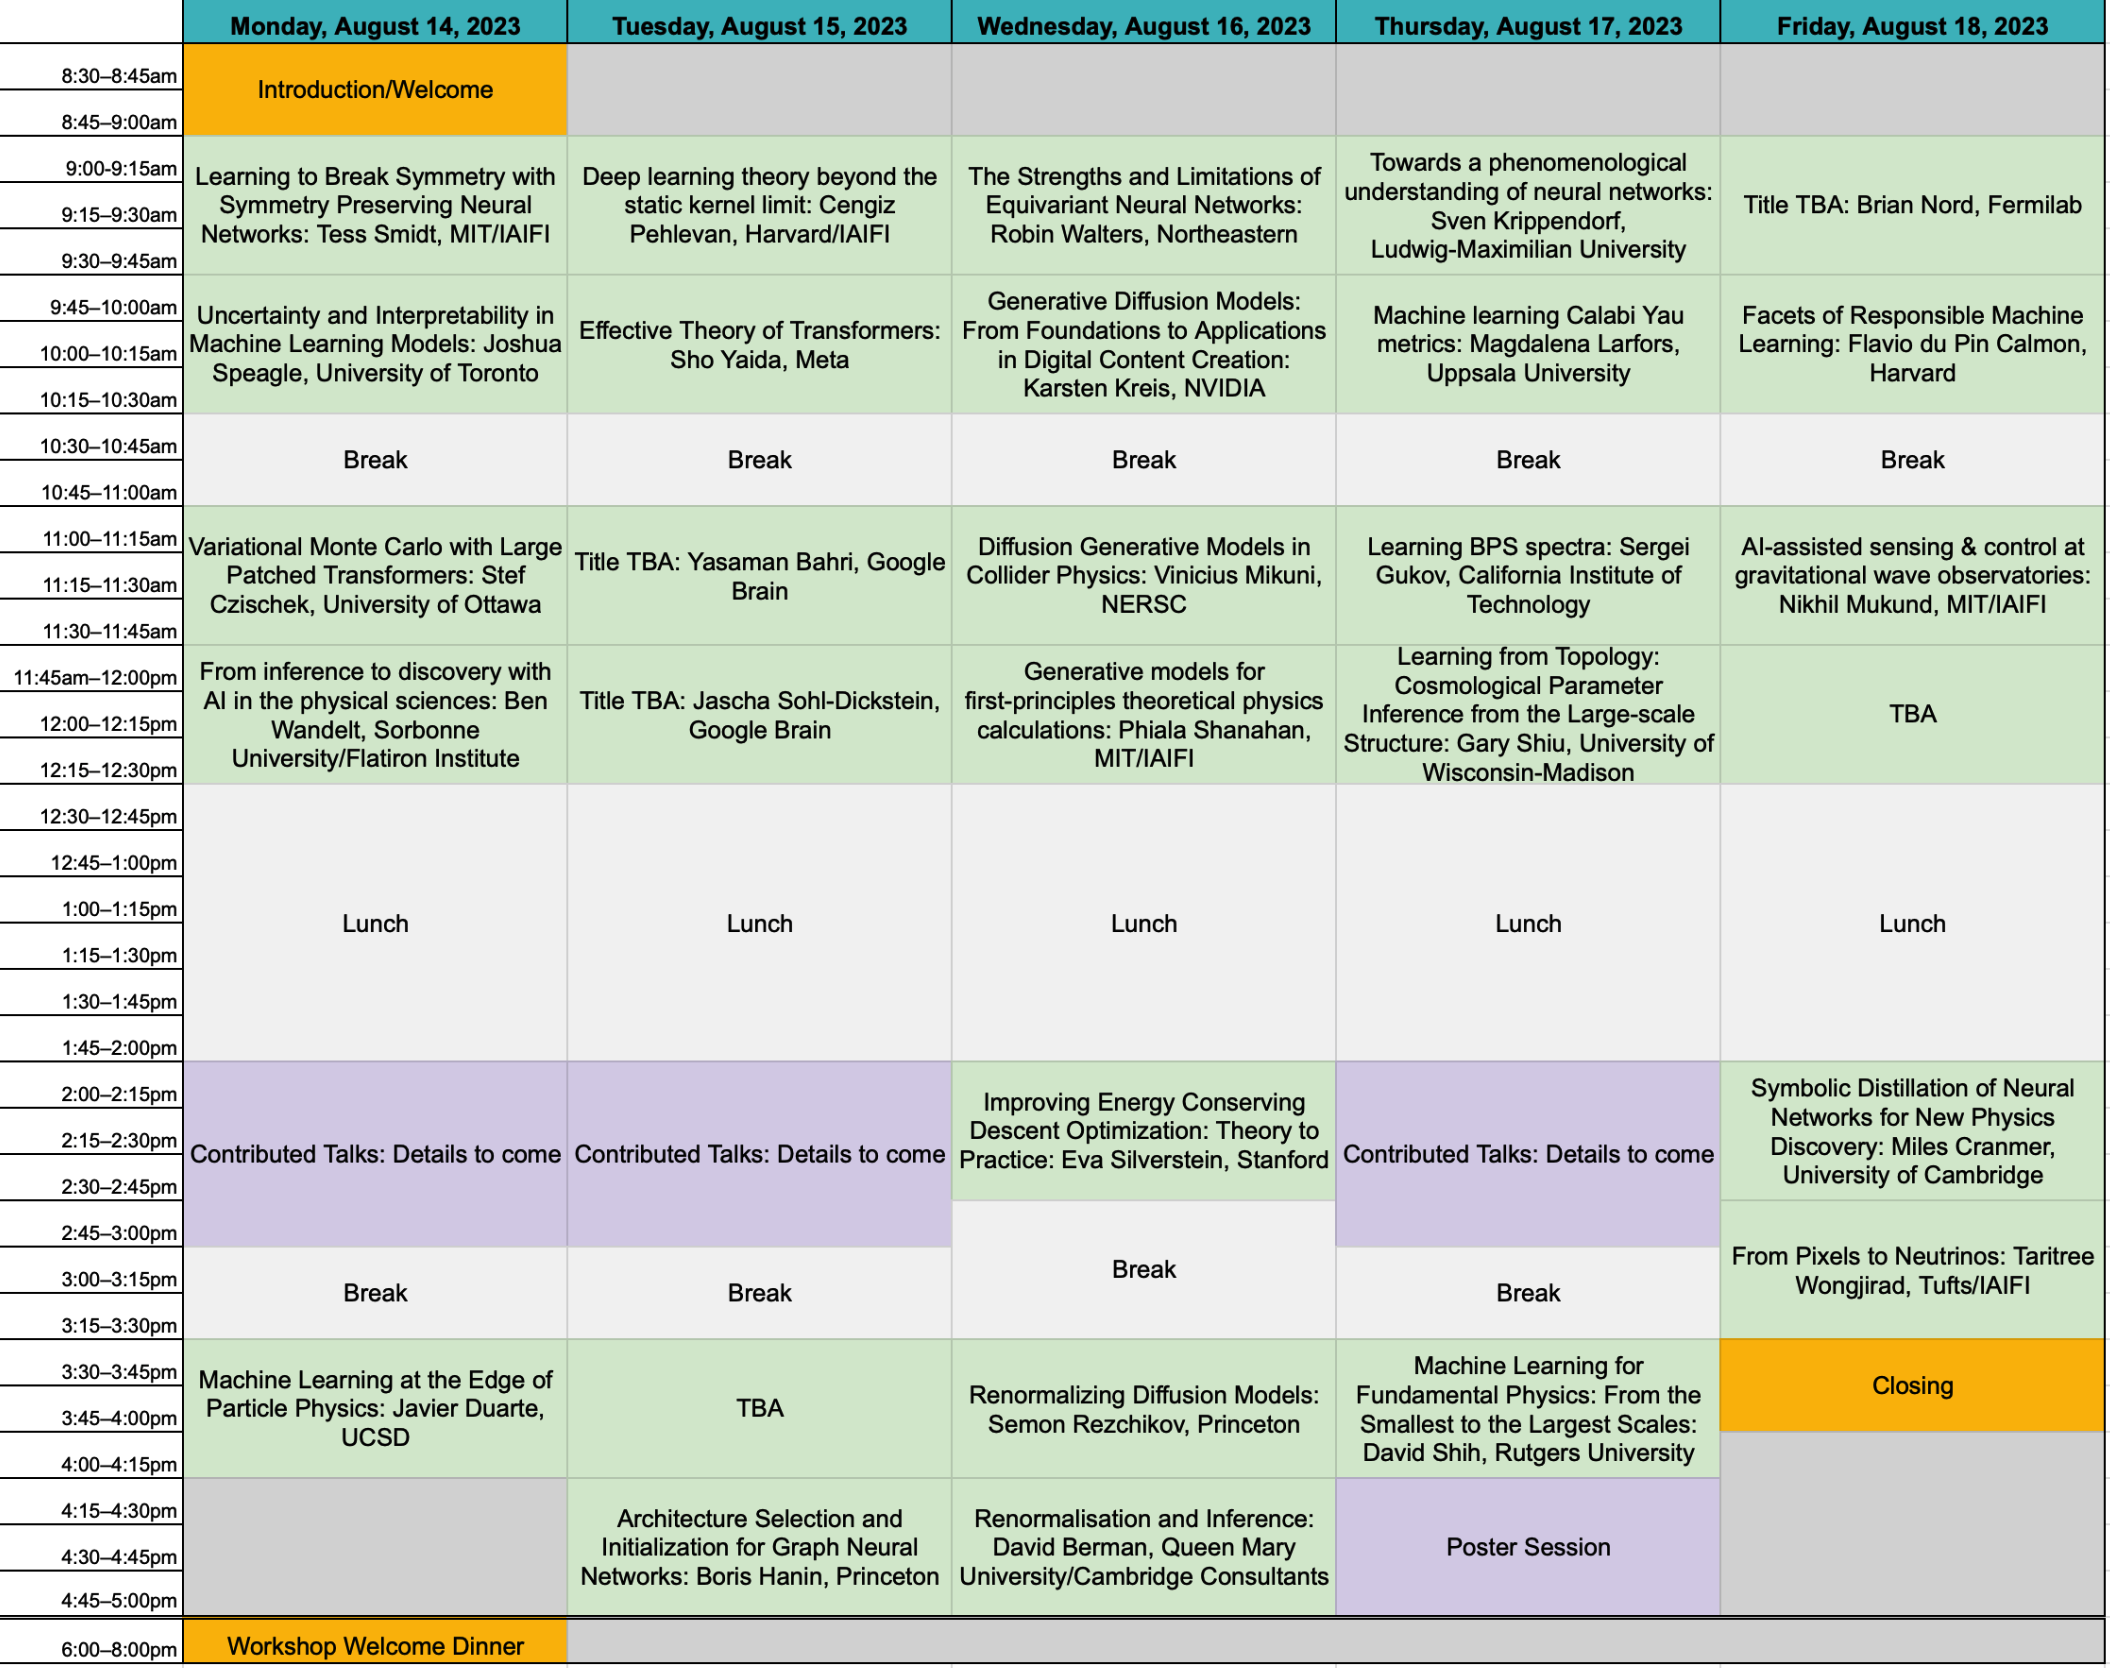
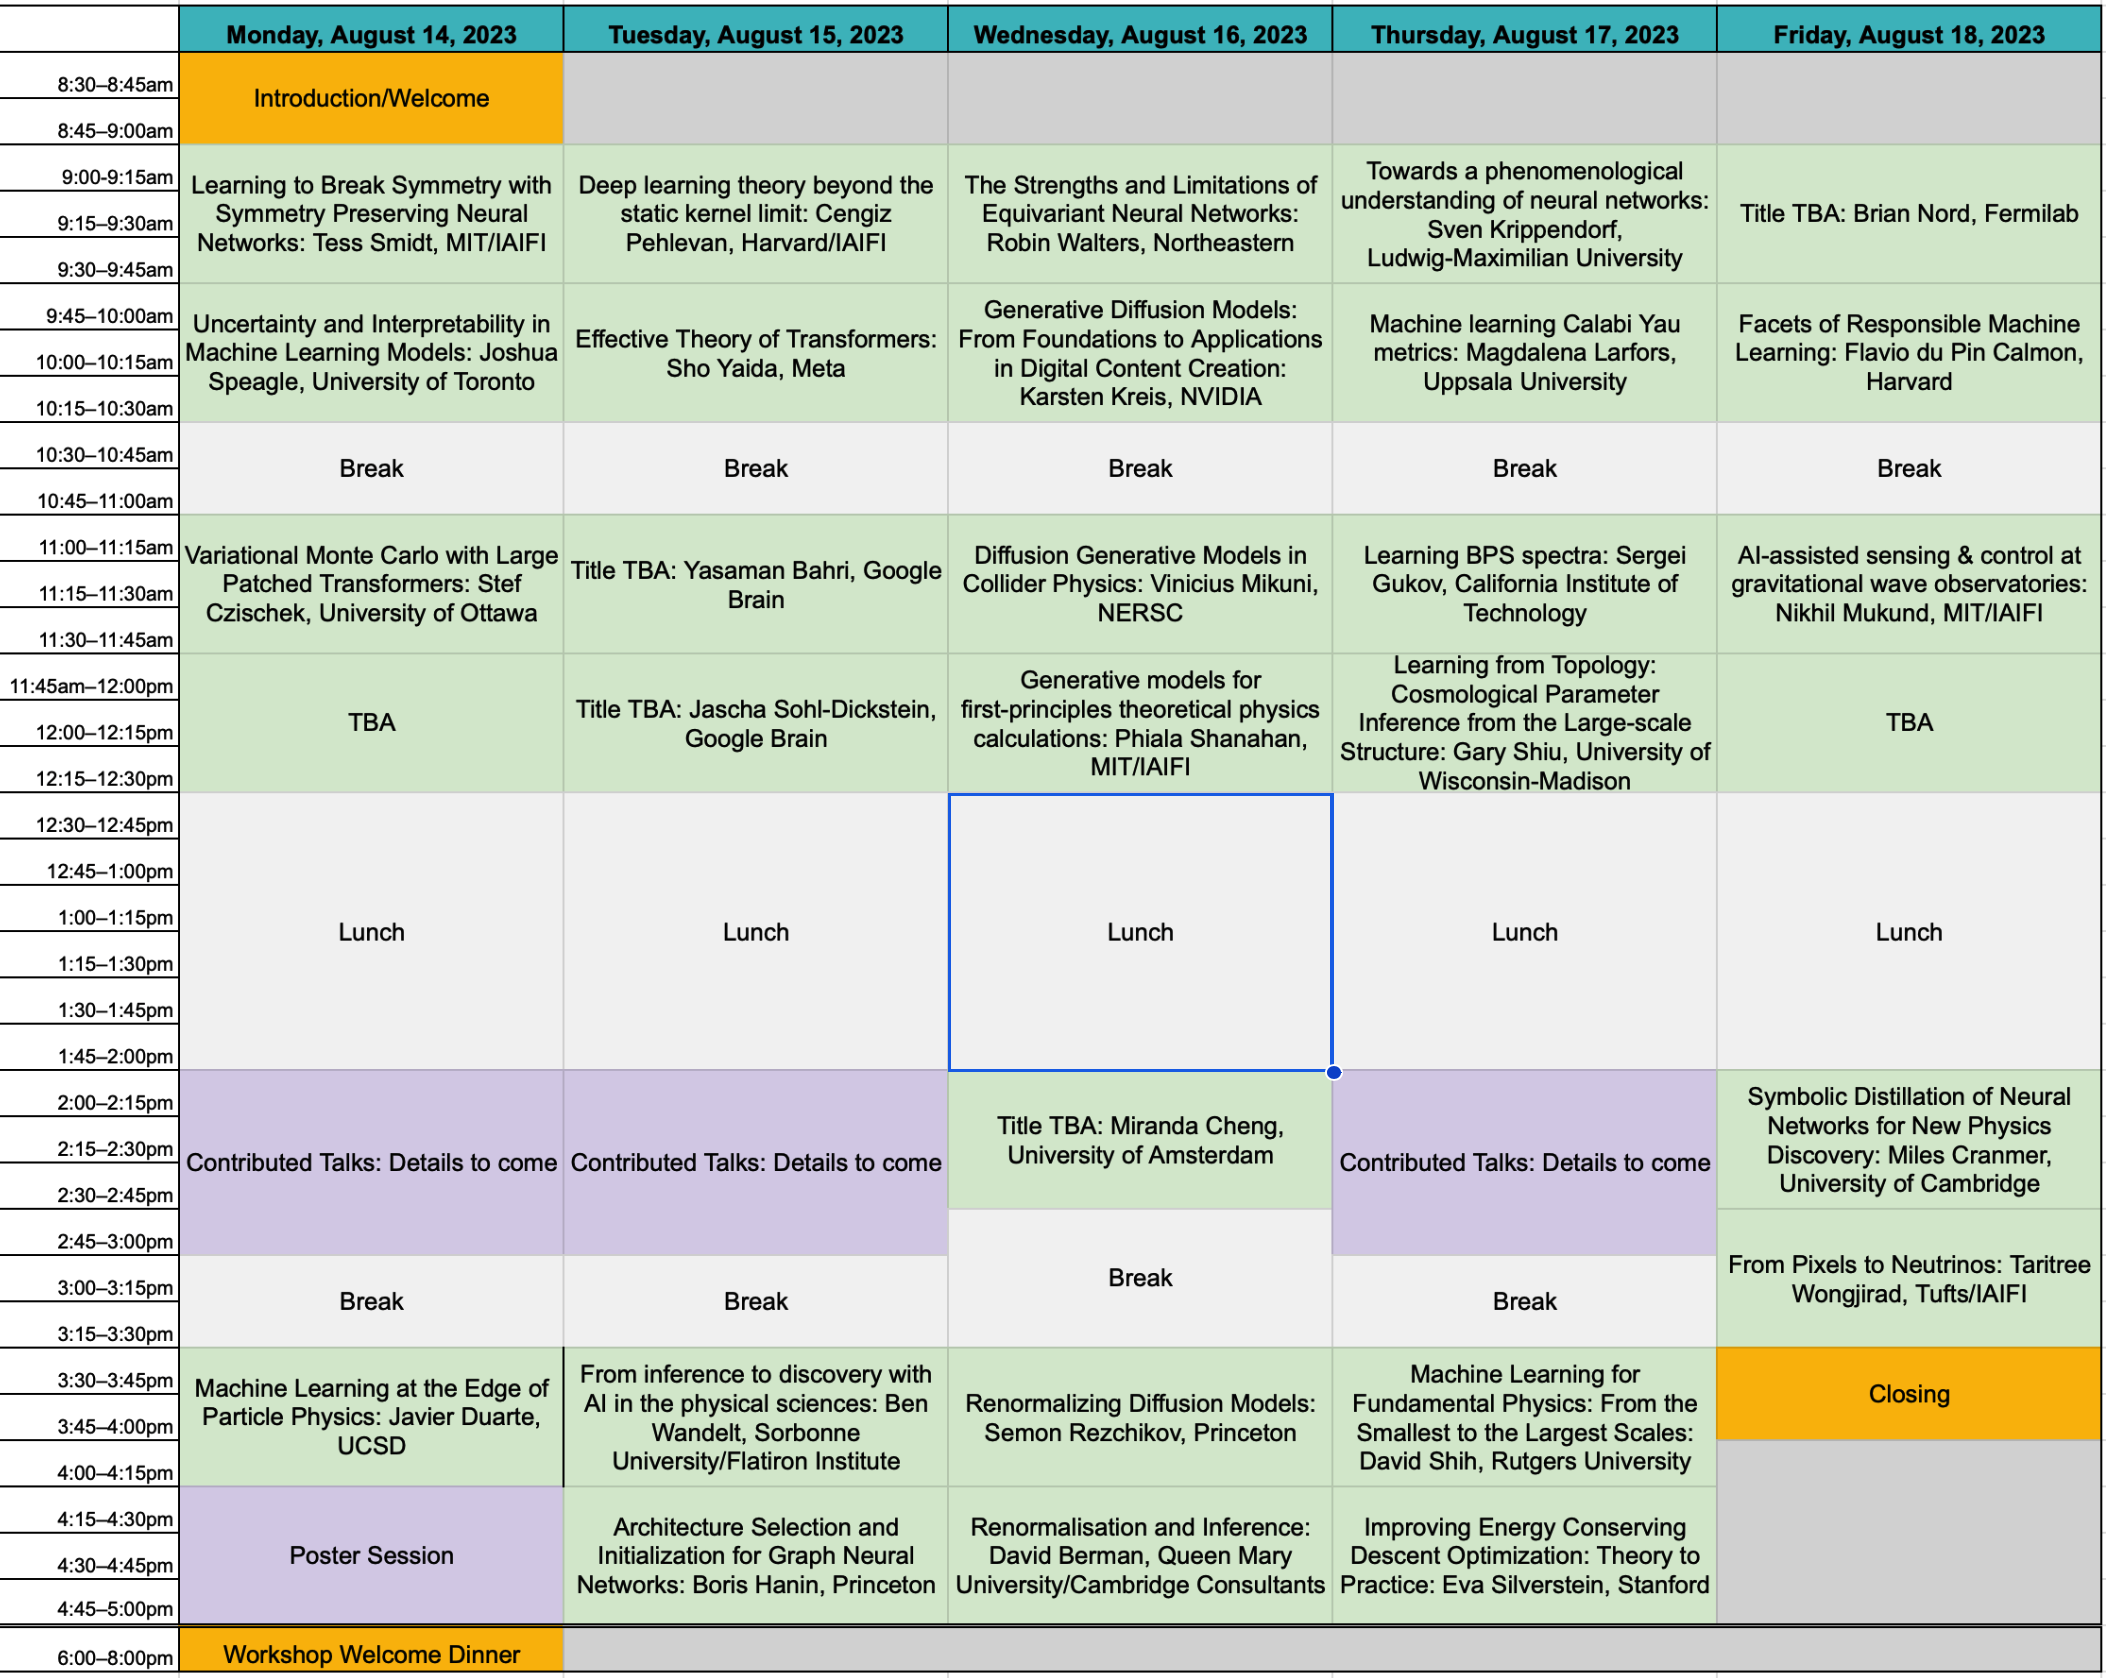
Updating workshop agenda

diff --git a/summer-workshop.md b/summer-workshop.md
@@ -58,7 +58,7 @@ The Institute for Artificial Intelligence and Fundamental Interactions (IAIFI) i
 ## Agenda
 *This agenda is subject to change.*
 
-<img src="images/2023_Workshop_Agenda.png" align="left" style="max-width:2602px;width:100%" hspace="10" vspace="10"> 
+<img src="images/2023_workshop_agenda.png" align="left" style="max-width:2602px;width:100%" hspace="10" vspace="10"> 
 
 ### Monday, August 14, 2023
 **8:30–9:00 am ET**
@@ -99,12 +99,7 @@ Variational Monte Carlo with Large Patched Transformers, Stef Czischek (Universi
 
 **11:45 am–12:30 pm ET**
 
-From inference to discovery with AI in the physical sciences, Ben Wandelt (Sorbonne University/Flatiron Institute)
-
-<details>
-<summary>Abstract</summary>
-<em>Abstract to come</em>
-</details>
+TBA
 
 **12:30–2:00 pm ET**
 
@@ -130,6 +125,15 @@ Machine Learning at the Edge of Particle Physics, Javier Duarte (UCSD)
 <details>
 <summary>Abstract</summary>
 <em>Ten years ago, the discovery of the Higgs boson confirmed the existence of a new kind of field, the Higgs field, which fills the universe. Measuring the interactions of the Higgs boson is necessary to confirm the standard model of particle physics, and any deviations from our expectations may give a critical hint for new laws of physics. At the CERN LHC, we collide protons at nearly the speed of light and analyze the debris from the collisions to learn about elementary particles like the Higgs boson. In this presentation, I will explain how we are developing machine learning methods to confront two major, and related, challenges at the LHC: (1) searching for the elusive Higgs boson self-interaction and (2) quickly filtering millions of collisions per second on field-programmable gate arrays (FPGAs) in pursuit of new physics.</em>
+</details>
+
+**4:15–5:30 pm ET**
+
+Poster Session
+
+<details>
+<summary>Details</summary>
+<em>Details to come.</em>
 </details>
 
 **6:00–8:00 pm ET**
@@ -198,7 +202,7 @@ Break
 
 **3:30–4:15 pm ET**
 
-TBA
+From inference to discovery with AI in the physical sciences, Ben Wandelt (Sorbonne University/Flatiron Institute)
 
 <details>
 <summary>Abstract</summary>
@@ -263,7 +267,7 @@ Lunch
 
 **2:00–2:45 pm ET**
 
-Improving Energy Conserving Descent Optimization: Theory to Practice, Eva Silverstein (Stanford)
+Title TBA, Miranda Cheng (University of Amsterdam)
 
 <details>
 <summary>Abstract</summary>
@@ -363,11 +367,11 @@ Machine Learning for Fundamental Physics: From the Smallest to the Largest Scale
 
 **4:15–5:00 pm ET**
 
-Poster Session
+Improving Energy Conserving Descent Optimization: Theory to Practice, Eva Silverstein (Stanford)
 
 <details>
-<summary>Details</summary>
-<em>Details to come.</em>
+<summary>Abstract</summary>
+<em>Abstract to come</em>
 </details>
 
 
@@ -467,6 +471,18 @@ The following speakers have accepted invitations to give plenary talks at this y
          </div>
          <div class="card-text" style="text-align: center; min-height: 4rem; line-height: 140%">
          <em> Professor, Queen Mary University; Head of AI, Cambridge Consultants </em> <br>
+         </div>
+         </div>
+       </div>
+
+     <div class="card" style="width: 17rem; height: 20rem; justify-content: center;">
+         <img class="my-card-img-top" src="images/small-photo-miranda-cheng.jpg" alt="Miranda Cheng" height="210rem" style="object-fit: cover;">
+         <div class="card-body d-flex flex-column">
+         <div class="card-text" style="text-align: center; min-height: 2rem;">
+         <a href="https://www.uva.nl/en/profile/c/h/c.n.cheng/c.n.cheng.html">Miranda Cheng</a>
+         </div>
+         <div class="card-text" style="text-align: center; min-height: 4rem; line-height: 140%">
+         <em> Faculty of Science, University of Amsterdam </em> <br>
          </div>
          </div>
        </div>
